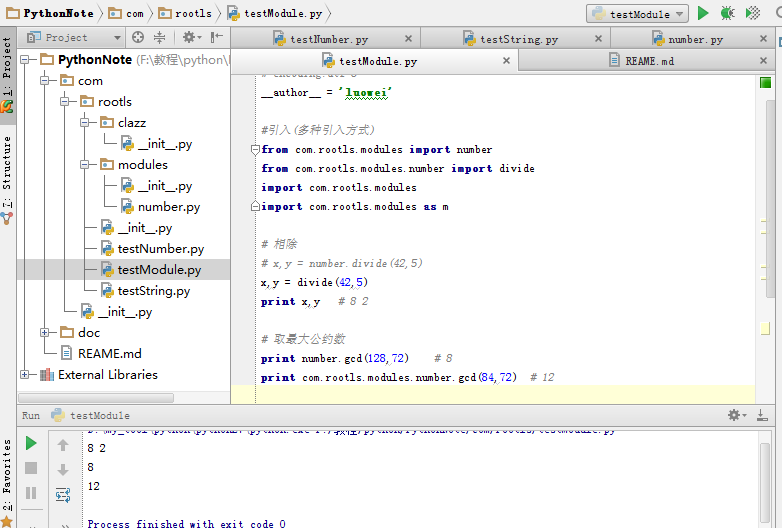
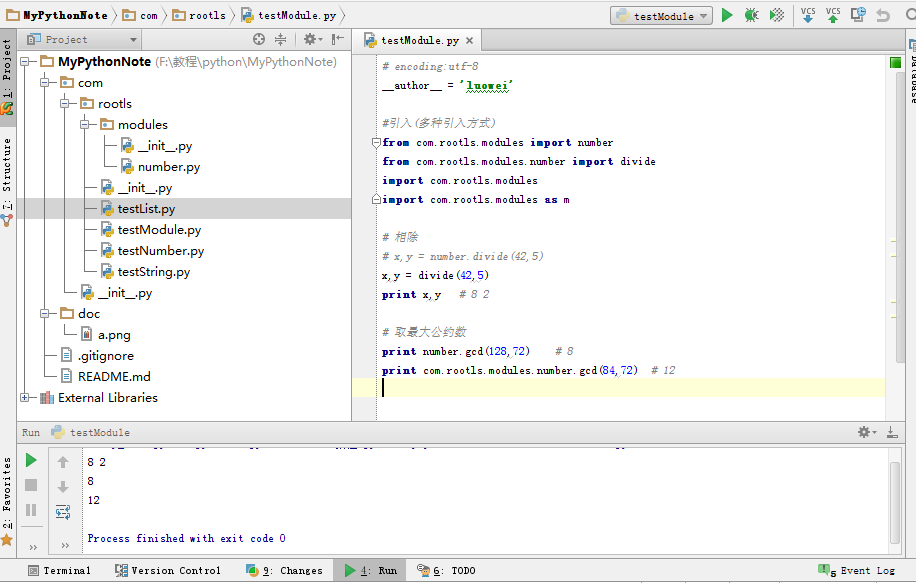
添加了testTuple与testDictionary

Changed region(s): [[0.0, 0.0, 1.0, 1.0]]

diff --git a/com/rootls/testDictionary.py b/com/rootls/testDictionary.py
@@ -1,0 +1,42 @@
+# encoding:utf-8
+__author__ = 'luowei'
+
+#字典
+
+d = {"duck":"eeg","water":"blue"}
+print d["duck"] # eeg
+print d["water"] # blue
+
+del d["water"]
+d["back"] = "rug"
+print d # {'back': 'rug', 'duck': 'eeg'}
+
+print d.keys() # ['back', 'duck']
+print d.values() # ['rug', 'eeg']
+print d.items() # [('back', 'rug'), ('duck', 'eeg')]
+
+print d.has_key("duck") # True
+print d.has_key("span") # False
+
+d["man"]="gentleMan"
+print d # {'man': 'gentleMan', 'back': 'rug', 'duck': 'eeg'}
+
+del d["back"]
+print d # {'man': 'gentleMan', 'duck': 'eeg'}
+
+d.clear()
+print d # {}
+
+# dictionary的key必须是immutable(不可变)
+d2 = {
+    "name":"Luowei",
+      "age":25,
+      ("hello","world"):1,
+      20:"yes",
+      "flag":["red","white","blue"]
+}
+print d2["flag"] # ['red', 'white', 'blue']
+
+
+
+

diff --git a/com/rootls/testTuple.py b/com/rootls/testTuple.py
@@ -1,0 +1,12 @@
+# encoding:utf-8
+__author__ = 'luowei'
+
+# tuple(元组)是不可变的，长度与值是不可伸缩与变化的
+
+t1 = (0,1,2,3);t2 = (4,5,6)
+t3 = (0,1,(2,3),'three',('four,one'))
+t4 = ()
+print t1+t2 # (0, 1, 2, 3, 4, 5, 6)
+print t1*2 # (0, 1, 2, 3, 0, 1, 2, 3)
+print t3 # (0, 1, (2, 3), 'three', 'four,one')
+print t3.index("three") # 3
